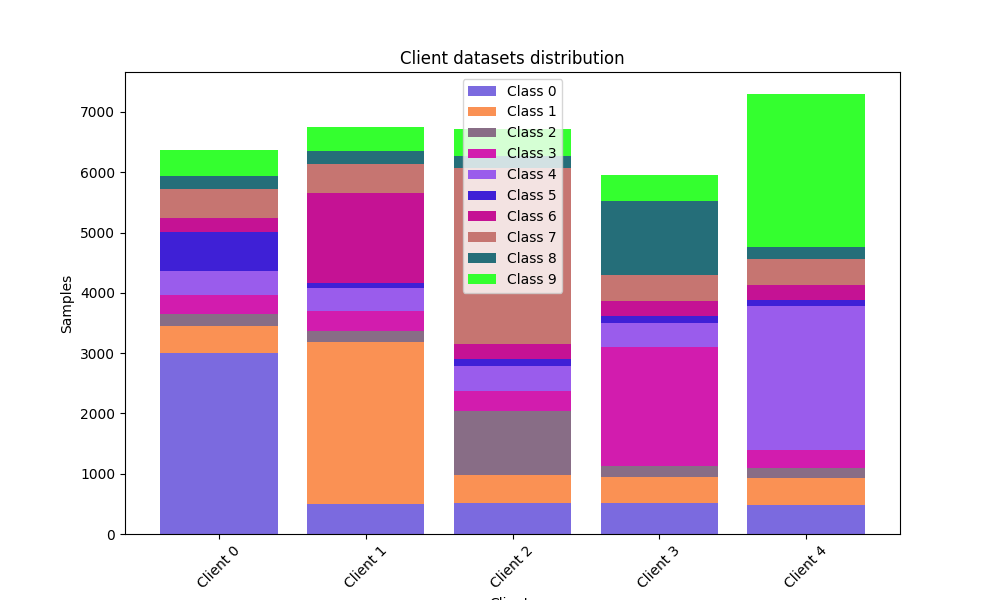
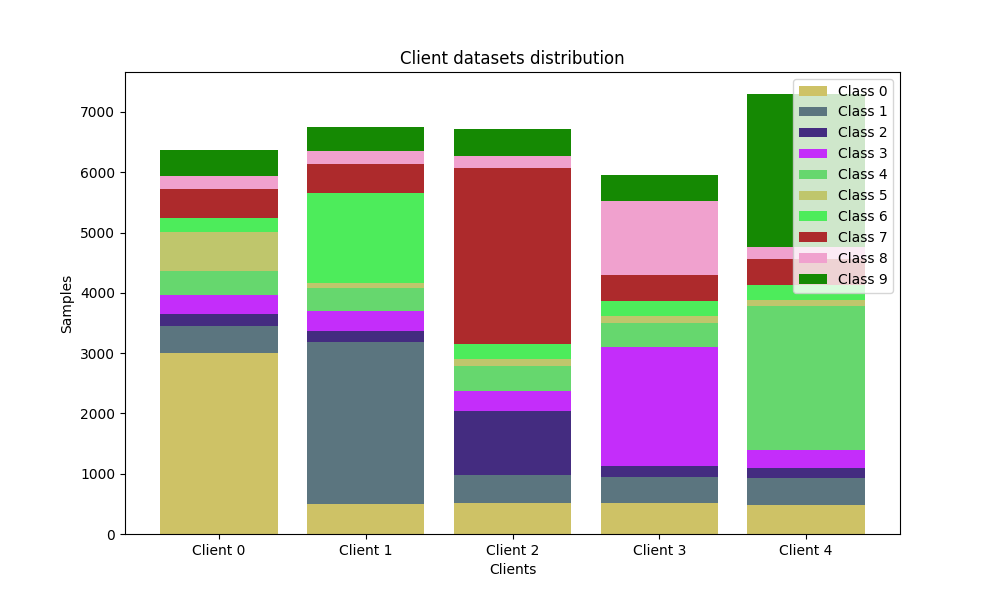
.

diff --git a/result/outputBestVsAll.py b/result/outputBestVsAll.py
@@ -10,6 +10,7 @@ from pathlib import Path
 this_dir = Path.cwd()
 isFull = int(sys.argv[1])
 isCifar = int(sys.argv[2])
+font = 26
 if not isCifar:
     output_dir = this_dir / "gquic256_saved_new"
     if (isFull):
@@ -17,10 +18,10 @@ if not isCifar:
     else:
         save_dir = this_dir / "final_result" / "zoom" / "gquic256_all"
     list_method = [
-                "dql_epsilon_gquic256",
+                "dql_gquic256_latest",
                 "ddpg_gquic256_latest",
-                "ppo_gquic_256_latest",
-                "gquic_256_sac_new",
+                "ppo_gquic256_latest",
+                "sac_gquic256_latest",
                 ]
 else:
     output_dir = this_dir / "cifar10_saved_new"
@@ -35,6 +36,7 @@ else:
                "cifar_10_ddpg_ucb1",
                "cifar_10_ppo",
                "cifar_10_sac"]
+    font = 17
 
 fig_loss, f_loss = plt.subplots(figsize=(14,8))
 fig_acc, f_acc = plt.subplots(figsize=(14,8))
@@ -42,10 +44,18 @@ fig_reward, f_reward = plt.subplots(figsize=(14,8))
 fig_time, f_time = plt.subplots(figsize=(14,8))
 
 objName = {
-    "dql_epsilon_gquic256" : "DQL",
+    "dql_gquic256_latest" : "DQL",
     "ddpg_gquic256_latest" : "DDPG",
-    "ppo_gquic_256_latest" : "PPO",
-    "gquic_256_sac_new" : "SAC",
+    "ppo_gquic256_latest" : "PPO",
+    "sac_gquic256_latest" : "SAC",
+    
+    "cifar10_dql_ucb1" : "DQL_UCB1",
+    "cifar10_dql_epsilon_greedy" : "DQL_EpsilonGreedy",
+    "cifar10_dql_softmax" : "DQL_Softmax",
+    "cifar_10_ddpg_epsilon_greedy" : "DDPG_EpsilonGreedy",
+    "cifar_10_ddpg_ucb1" : "DDPG_UCB1",
+    "cifar_10_ppo" : "PPO",
+    "cifar_10_sac" : "SAC",
 }
 
 for method in list_method:
@@ -70,10 +80,15 @@ for method in list_method:
     round = np.arange(1, len(train_time) + 1)
     sum = 0
     time = []
+    index = 0
     for x in train_time:
         sum += x
         time.append(sum)
+        if sum < 38000:
+            index += 1
     time = np.array(time)
+    
+    print(objName[method] + " " + str(index) + " " + str(acc[index]) + " " + str(reward[index]))
     
     f_loss.plot(time, loss, label=objName[method])
     f_acc.plot(time, acc, label=objName[method])
@@ -81,40 +96,42 @@ for method in list_method:
     f_time.plot(round, train_time, label=objName[method])
     
     # LOSS
-f_loss.set_xlabel('Time')
-f_loss.set_ylabel('Loss')
+f_loss.set_xlabel('Time', fontsize="22")
+f_loss.xaxis.set_tick_params(labelsize=17)
+f_loss.xaxis.set_label_coords(0.5, -0.09)
+f_loss.set_ylabel('Loss', fontsize="22")
+f_loss.yaxis.set_tick_params(labelsize=17)
+f_loss.yaxis.set_label_coords(-0.125, 0.5)
 # f_loss.set_title('Training Loss')
 if not isFull:
     if not isCifar:
-        f_loss.set_ylim(0.0148, 0.017)
+        f_loss.set_ylim(0.0157, 0.020)
     else:
-        f_loss.set_ylim(0, 0.01)
-        f_loss.set_xlim(10000)
-f_loss.legend()
+        f_loss.set_ylim(-0.001, 0.02)
+f_loss.legend(loc = "upper right", fontsize=str(font))
 fig_loss.savefig(save_dir / "training_loss.png")
 
     # ACCURACY 
-f_acc.set_xlabel('Time', fontsize="24")
-f_acc.xaxis.set_tick_params(labelsize=20)
+f_acc.set_xlabel('Time', fontsize="22")
+f_acc.xaxis.set_tick_params(labelsize=17)
 f_acc.xaxis.set_label_coords(0.5, -0.09)
-f_acc.set_ylabel('Accuracy', fontsize="24")
-f_acc.yaxis.set_tick_params(labelsize=20)
+f_acc.set_ylabel('Accuracy', fontsize="22")
+f_acc.yaxis.set_tick_params(labelsize=17)
 f_acc.yaxis.set_label_coords(-0.1, 0.5)
 # f_acc.set_title('Training acc')
 if not isFull:
     if not isCifar:
         f_acc.set_ylim(0.75, 0.92)
     else:
-        f_acc.set_ylim(0.8, 1.01)
-        f_acc.set_xlim(10000)
-f_acc.legend(loc = "lower right", fontsize="26")
+        f_acc.set_ylim(0.4, 1.05)
+f_acc.legend(loc = "lower right", fontsize=str(font))
 fig_acc.savefig(save_dir / "training_acc.png")
 
     # REWARD 
-f_reward.set_xlabel('Time', fontsize="24")
-f_reward.xaxis.set_tick_params(labelsize=20)
+f_reward.set_xlabel('Time', fontsize="22")
+f_reward.xaxis.set_tick_params(labelsize=17)
 f_reward.xaxis.set_label_coords(0.5, -0.09)
-f_reward.set_ylabel('Reward', fontsize="24")
+f_reward.set_ylabel('Reward', fontsize="22")
 f_reward.yaxis.set_tick_params(labelsize=17)
 f_reward.yaxis.set_label_coords(-0.125, 0.5)
 # f_reward.set_title('Training reward')
@@ -122,9 +139,8 @@ if not isFull:
     if not isCifar:
         f_reward.set_ylim(-0.02, -0.0155)
     else:
-        f_reward.set_ylim(-0.0075, 0)
-        f_reward.set_xlim(10000)
-f_reward.legend(loc = "lower right", fontsize="26")
+        f_reward.set_ylim(-0.025, 0.001)
+f_reward.legend(loc = "lower right", fontsize=str(font))
 fig_reward.savefig(save_dir / "training_reward.png")
 
 # f_time.set_xlabel('Round')

diff --git a/result/outputBestVsRaw.py b/result/outputBestVsRaw.py
@@ -10,6 +10,7 @@ from pathlib import Path
 this_dir = Path.cwd()
 isFull = int(sys.argv[1])
 isCifar = int(sys.argv[2])
+font = 26
 if not isCifar:
     output_dir = this_dir / "gquic256_saved_new"
     if (isFull):
@@ -17,10 +18,10 @@ if not isCifar:
     else:
         save_dir = this_dir / "final_result" / "zoom" / "gquic256"
     list_method = [ 
-                "raw_guic256_50s", 
-                "raw_guic256_100s", 
+                "raw_gquic256_50s", 
+                "raw_gquic256_100s", 
                 "raw_gquic256_150s",
-                "gquic_256_sac_new",
+                "sac_gquic256_latest",
                ]
 else:
     output_dir = this_dir / "cifar10_saved_new"
@@ -32,12 +33,18 @@ else:
                "cifar_10_raw_100", 
                "cifar_10_raw_150", 
                "cifar_10_sac"]
+    font = 17
     
 objName = {
-    "raw_guic256_50s" : "Fixed 50 seconds training time per round",
-    "raw_guic256_100s" : "Fixed 100 seconds training time per round",
+    "raw_gquic256_50s" : "Fixed 50 seconds training time per round",
+    "raw_gquic256_100s" : "Fixed 100 seconds training time per round",
     "raw_gquic256_150s" : "Fixed 150 seconds training time per round",
-    "gquic_256_sac_new" : "Soft Actor Critic (SAC)",
+    "sac_gquic256_latest" : "Soft Actor Critic (SAC)",
+    
+    "cifar_10_raw_50" : "Fixed 50 seconds training time per round",
+    "cifar_10_raw_100" : "Fixed 100 seconds training time per round",
+    "cifar_10_raw_150" : "Fixed 150 seconds training time per round",
+    "cifar_10_sac" : "Soft Actor Critic (SAC)",
 }
 
 fig_loss, f_loss = plt.subplots(figsize=(14,8))
@@ -68,9 +75,12 @@ for method in list_method:
     round = np.arange(1, len(train_time) + 1)
     sum = 0
     time = []
+    index = 0
     for x in train_time:
         sum += x
         time.append(sum)
+        if sum < 40000:
+            index += 1
     time = np.array(time)
     
     tmp = 0
@@ -85,6 +95,8 @@ for method in list_method:
             cnt += 1
             tmp = 0
         listTime.append(cnt)
+        
+    print(objName[method] + " " + str(index) + " " + str(acc[index]) + " " + str(reward[index]))
     
     listTimeIdx = [i for i in range(0, len(listTime))]
     f_loss.plot(time, loss, label=objName[method])
@@ -94,15 +106,19 @@ for method in list_method:
     f_time2.plot(listTimeIdx, listTime, label=objName[method])
     
     # LOSS
-f_loss.set_xlabel('Time')
-f_loss.set_ylabel('Loss')
+f_loss.set_xlabel('Time', fontsize="24")
+f_loss.xaxis.set_tick_params(labelsize=20)
+f_loss.xaxis.set_label_coords(0.5, -0.09)
+f_loss.set_ylabel('Loss', fontsize="24")
+f_loss.yaxis.set_tick_params(labelsize=20)
+f_loss.yaxis.set_label_coords(-0.125, 0.5)
 # f_loss.set_title('Training Loss')
 if not isFull:
     if not isCifar:
-        f_loss.set_ylim(0.0148, 0.02)
+        f_loss.set_ylim(0.0157, 0.020)
     else:
         f_loss.set_ylim(-0.0005, 0.02)
-f_loss.legend()
+f_loss.legend(loc = "upper right", fontsize=str(font))
 fig_loss.savefig(save_dir / "training_loss.png")
 
     # ACCURACY 
@@ -118,7 +134,7 @@ if not isFull:
         f_acc.set_ylim(0.75, 0.92)
     else:
         f_acc.set_ylim(0.5, 1.01)
-f_acc.legend(loc = "lower right", fontsize="24")
+f_acc.legend(loc = "lower right", fontsize=str(font))
 fig_acc.savefig(save_dir / "training_acc.png")
 
     # REWARD 
@@ -134,7 +150,7 @@ if not isFull:
         f_reward.set_ylim(-0.02, -0.0155)
     else:
         f_reward.set_ylim(-0.02, 0.0001)
-f_reward.legend(loc = "lower right", fontsize="24")
+f_reward.legend(loc = "lower right", fontsize=str(font))
 fig_reward.savefig(save_dir / "training_reward.png")
 
 # f_time.set_xlabel('Round')

diff --git a/result/output_noniid.py b/result/output_noniid.py
@@ -8,17 +8,18 @@ this_dir = Path.cwd()
 output_dir = this_dir / "cifar10_saved_new"
 save_dir = this_dir / "final_result" / "non_iid"
 list_method = [
-            #    "cifar_10_raw_50", 
-            #    "cifar_10_raw_100", 
-            #    "cifar_10_raw_150", 
+               "cifar_10_raw_50", 
+               "cifar_10_raw_100", 
+               "cifar_10_raw_150", 
                "cifar10_raw_50_noniid_quantity_skew", 
                "cifar10_raw_100_noniid_quantity_skew", 
                "cifar10_raw_150_noniid_quantity_skew",
                "cifar10_raw_50_noniid_label_skew",
                "cifar10_raw_100_noniid_label_skew",
                "cifar10_raw_150_noniid_label_skew",
+               "cifar10_raw_50_noniid_cluster_skew",
                "cifar10_raw_100_noniid_cluster_skew",
-               "cifar10_ppo_noniid_label_skew"
+               "cifar10_raw_150_noniid_cluster_skew",
                ]
 
 # output_dir = this_dir / "gquic256_saved_new"
@@ -31,6 +32,23 @@ list_method = [
 #                "gquic256_ddpg_epsilon_greedy", 
 #                "gquic256_sac",
 #                "gquic256_ppo"]
+
+objName = {
+    "cifar_10_raw_50" : "50s_iid", 
+    "cifar_10_raw_100" : "100s_iid", 
+    "cifar_10_raw_150" : "150s_iid",
+    "cifar10_raw_50_noniid_quantity_skew" : "50s_quantity_skew", 
+    "cifar10_raw_100_noniid_quantity_skew" : "100s_quantity_skew", 
+    "cifar10_raw_150_noniid_quantity_skew" : "150s_quantity_skew",
+    "cifar10_raw_50_noniid_label_skew" : "50s_label_skew",
+    "cifar10_raw_100_noniid_label_skew" : "100s_label_skew",
+    "cifar10_raw_150_noniid_label_skew" : "150s_label_skew",
+    "cifar10_sac_label_skew": "SAC_label_skew",
+    "cifar10_raw_50_noniid_cluster_skew" : "50s_cluster_skew",
+    "cifar10_raw_100_noniid_cluster_skew" : "100s_cluster_skew",
+    "cifar10_raw_150_noniid_cluster_skew" : "150s_cluster_skew",
+    "cifar10_sac_cluster_skew" : "SAC_cluster_skew"
+}
 
 fig_loss, f_loss = plt.subplots(figsize=(10,6))
 fig_acc, f_acc = plt.subplots(figsize=(10,6))
@@ -64,10 +82,10 @@ for method in list_method:
         time.append(sum)
     time = np.array(time)
     
-    f_loss.plot(time, loss, label=method)
-    f_acc.plot(time, acc, label=method)
-    f_reward.plot(time, reward, label=method)
-    f_time.plot(round, train_time, label=method)
+    f_loss.plot(time, loss, label=objName[method])
+    f_acc.plot(time, acc, label=objName[method])
+    f_reward.plot(time, reward, label=objName[method])
+    f_time.plot(round, train_time, label=objName[method])
     
 f_loss.set_xlabel('Time')
 f_loss.set_ylabel('Loss')

diff --git a/client/client_cifar.py b/client/client_cifar.py
@@ -67,7 +67,7 @@ def printNumberOfSample(train_datasets):
 
         # Plot each category as a stacked bar
         bottom = np.zeros(NUM_CLIENTS)
-        colors = [generate_random_color() for _ in range(NUM_CLASSES)]
+        colors = ['#cec266', '#5b757f', '#442c80', '#c42dfa', '#66d76e', '#bfc66c', '#4dec5b', '#ad2a2c', '#f0a1ce', '#158903']
         for i in range(NUM_CLASSES):
             ax.bar(clients, sample_record[:, i], bottom=bottom, label=f'{classes[i]}', color=colors[i])
             bottom += sample_record[:, i]
@@ -76,8 +76,8 @@ def printNumberOfSample(train_datasets):
         ax.set_xlabel('Clients')
         ax.set_ylabel('Samples')
         ax.set_title('Client datasets distribution')
-        ax.legend()
-        plt.xticks(rotation=45)
+        ax.legend(loc = "upper right")
+        # plt.xticks(rotation=45)
         this_dir = Path.cwd()
         save_dir = this_dir / "client_sample"
         label = None
@@ -169,6 +169,8 @@ else:
     trainloader = DataLoader(group_samples_train[CLIENT_INDEX], batch_size=BATCH_SIZE, shuffle=True)
     testloader = DataLoader(group_samples_test[CLIENT_INDEX], batch_size=BATCH_SIZE)
     printNumberOfSample(group_samples_train)
+    
+exit(0)
     
 class Net(nn.Module):
     def __init__(self):

diff --git a/client/client_gquic.py b/client/client_gquic.py
@@ -73,7 +73,7 @@ def printNumberOfSample(label_set):
 
         # Plot each category as a stacked bar
         bottom = np.zeros(NUM_CLIENTS)
-        colors = [generate_random_color() for _ in range(NUM_CLASSES)]
+        colors = ['#bfc66c', '#4dec5b', '#ad2a2c', '#f0a1ce', '#158903']
         for i in range(NUM_CLASSES):
             ax.bar(clients, sample_record[:, i], bottom=bottom, label=f'{classes[i]}', color=colors[i])
             bottom += sample_record[:, i]
@@ -82,8 +82,8 @@ def printNumberOfSample(label_set):
         ax.set_xlabel('Clients')
         ax.set_ylabel('Samples')
         ax.set_title('Client datasets distribution')
-        ax.legend()
-        plt.xticks(rotation=45)
+        ax.legend(loc = "upper right")
+        # plt.xticks(rotation=45)
         this_dir = Path.cwd()
         save_dir = this_dir / "client_sample"
         label = None
@@ -203,6 +203,8 @@ elif (SCENARIO == SCENARIO_Label_Skew):
 else:
     x_train, y_train = cluster_skew(x_train, y_train)
     x_test, y_test = cluster_skew(x_test, y_test)
+    
+exit(0)
 
 def to_tensor(x_train, y_train):
     tensor_x = torch.Tensor(x_train) # transform to torch tensor
